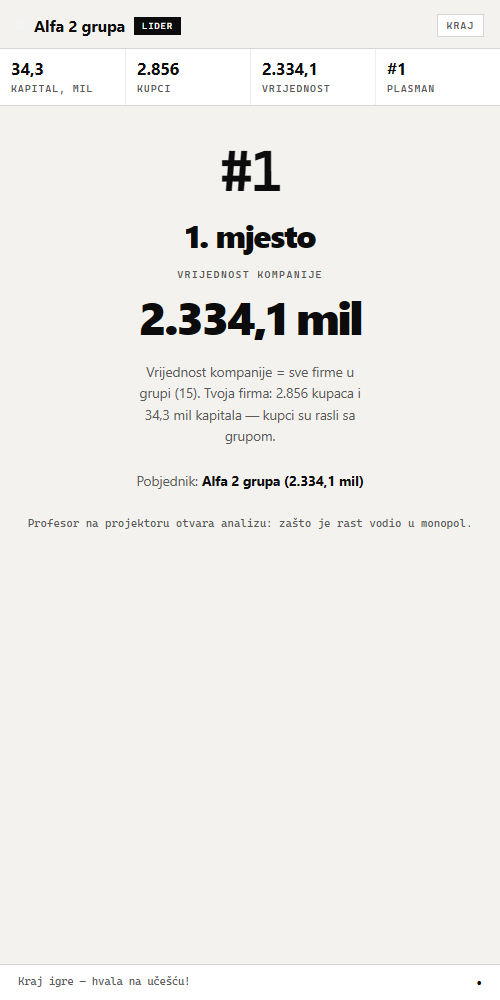
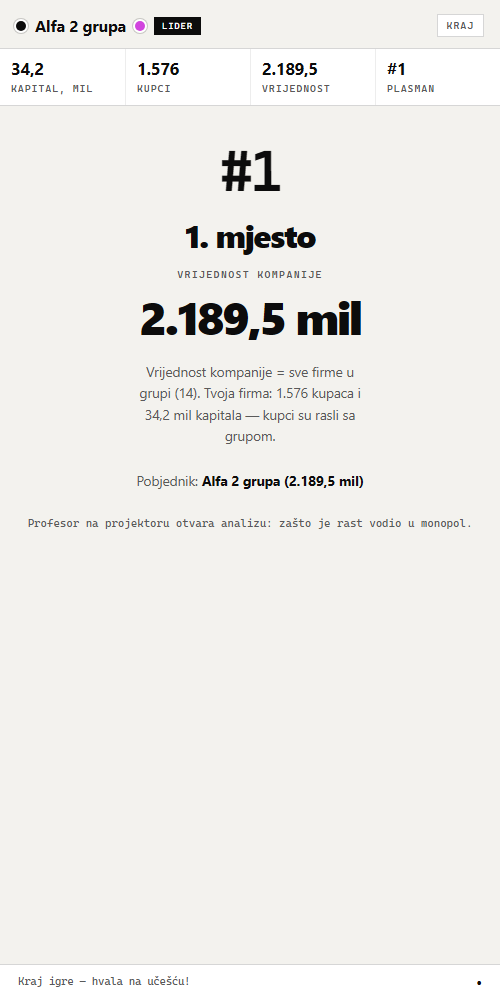
Boja firme/grupe uz naziv na telefonu (zaglavlje, ponude, glasanje, rang)

diff --git a/public/player.js b/public/player.js
@@ -114,7 +114,9 @@ function render() {
 
 function updateHeader() {
   const me = S.me;
-  $('myDot').style.background = '#f4f4f4';
+  const myColor = (me.group && me.group.members > 1 ? me.group.color : me.color) || '#0c0c0c';
+  const sw = $('myColor');
+  if (sw) sw.style.background = myColor || '#0c0c0c';
   $('myName').textContent = me.group && me.group.members > 1 ? me.group.name : me.name;
   const badge = $('leaderBadge');
   const isLeader = me.group && me.group.isLeader && me.group.members > 1;
@@ -188,13 +190,18 @@ function buildLobby() {
   const root = h('div', { class: 'lobby-wait' },
     h('div', { class: 'lobby-mark' }),
     h('h2', {}, 'Firma je osnovana'),
-    h('div', { class: 'firm-name-big', id: 'lobbyFirm' }, S.me.name),
+    h('div', { class: 'firm-name-big', id: 'lobbyFirm' }, h('span', { class: 'swatch', id: 'lobbySwatch' }), S.me.name),
     h('p', {}, 'Dobio si 50 miliona KM kapitala. Na tržištu je 10.000 kupaca i svi se bore za njih. Igra ima 5 rundi.'),
     h('div', { class: 'live-count', id: 'lobbyCount' }, ''),
     h('div', { class: 'note' }, 'Kada se svi prijave, profesor pokreće igru.')
   );
   const update = st => {
-    $('lobbyFirm').textContent = st.me.name;
+    const firmEl = $('lobbyFirm');
+    if (firmEl) {
+      const sw = document.getElementById('lobbySwatch');
+      if (sw) sw.style.background = st.me.color || '#0c0c0c';
+      if (firmEl.childNodes[1]) firmEl.childNodes[1].nodeValue = st.me.name;
+    }
     const n = st.totals.players;
     $('lobbyCount').innerHTML = '<b>' + fmt0(n) + '</b> ' + (n === 1 ? 'firma u sali' : 'firmi u sali');
   };
@@ -438,7 +445,7 @@ function buildMerge() {
     const gp = h('div', { class: 'group-panel' });
     if (g && g.members > 1) {
       gp.append(
-        h('div', { class: 'gp-name' }, g.name),
+        h('div', { class: 'gp-name' }, h('span', { class: 'swatch', style: { background: g.color || '#0c0c0c' } }), g.name),
         h('div', { class: 'gp-meta' }, g.members + ' firmi: ' + (g.memberNames || []).join(', ')),
         h('div', { class: 'gp-meta' }, 'Lider: ' + g.leaderName + (g.isLeader ? ' (ti)' : '') + ' · udio ' + pct(g.share) + ' · vrijednost ' + fmt1(g.score) + ' mil'),
         h('div', { class: 'gp-meta' }, 'Zajedno imate ' + fmt0(g.customers) + ' kupaca i ' + fmt1(g.capital) + ' mil kapitala.'),
@@ -446,7 +453,7 @@ function buildMerge() {
       );
     } else {
       gp.append(
-        h('div', { class: 'gp-name' }, me.name),
+        h('div', { class: 'gp-name' }, h('span', { class: 'swatch', style: { background: me.color || '#0c0c0c' } }), me.name),
         h('div', { class: 'gp-meta' }, 'Samostalna firma · ' + fmt0(me.customers) + ' kupaca · ' + fmt1(me.capital) + ' mil kapitala'),
         h('div', { class: 'gp-meta' }, 'Ako prihvatiš spajanje: ' + gainText + '. Zato se isplati biti u većoj grupi.')
       );
@@ -462,9 +469,11 @@ function buildMerge() {
         refs.offerMeta = refs.offerMeta || [];
         refs.offerMeta.push({ el: metaEl, id: o.id });
         card.append(
-          h('div', { class: 'offer-title' }, o.open
-            ? o.fromGroupName + ' poziva sve firme na spajanje'
-            : o.fromGroupName + ' želi da se spoji s tobom'),
+          h('div', { class: 'offer-title' },
+            h('span', { class: 'swatch', style: { background: o.fromColor || '#0c0c0c' } }),
+            o.open
+              ? o.fromGroupName + ' poziva sve firme na spajanje'
+              : o.fromGroupName + ' želi da se spoji s tobom'),
           metaEl
         );
         if (o.canRespond) {
@@ -519,7 +528,7 @@ function buildMerge() {
       root.append(h('div', { class: 'section-label' }, 'Ili pošalji ponudu jednoj grupi'));
       for (const o of others) {
         const row = h('div', { class: 'merge-row' },
-          h('span', { class: 'mr-dot' }),
+          h('span', { class: 'mr-dot', style: { background: o.color || '#0c0c0c' } }),
           h('div', { class: 'mr-main' },
             h('div', { class: 'mr-name' }, o.name),
             h('div', { class: 'mr-meta' }, o.members + ' firmi · ' + pct(o.share) + ' tržišta · ' + fmt1(o.score) + ' mil')
@@ -641,8 +650,11 @@ function buildResults() {
     (me.prevCustomers != null ? me.prevCustomers : me.customers) * cv;
   const dVal = value - prevValue;
 
+  const resColor = me.group && me.group.members > 1 ? me.group.color : me.color;
   root.append(
-    h('div', { class: 'result-kicker' }, 'RUNDA ' + S.round + ' · ' + ((r.title || '').toUpperCase())),
+    h('div', { class: 'result-kicker' },
+      h('span', { class: 'swatch', style: { background: resColor || '#0c0c0c' } }),
+      'RUNDA ' + S.round + ' · ' + ((r.title || '').toUpperCase())),
     h('div', { class: 'result-big ' + bigClass }, big),
     h('div', { class: 'result-sub' }, sub),
     h('div', { class: 'rank-line' },

diff --git a/public/player.css b/public/player.css
@@ -93,7 +93,7 @@ body.player {
   font-weight: 700;
   letter-spacing: -0.01em;
 }
-.firm-chip .dot { width: 9px; height: 9px; background: #0c0c0c; flex: none; }
+.firm-chip .firm-color { width: 10px; height: 10px; border-radius: 50%; background: #0c0c0c; flex: none; }
 #myName { white-space: nowrap; overflow: hidden; text-overflow: ellipsis; }
 .badge {
   flex: none;
@@ -496,3 +496,27 @@ body.player {
   border-left: 2px solid var(--text);
   padding-left: 10px;
 }
+
+/* ------------------------- boja firme / grupe ----------------------------- */
+.firm-color {
+  flex: none;
+  width: 12px;
+  height: 12px;
+  border-radius: 50%;
+  background: #0c0c0c;
+  box-shadow: 0 0 0 2px #fff, 0 0 0 3px rgba(0, 0, 0, 0.18);
+}
+.swatch {
+  display: inline-block;
+  width: 11px;
+  height: 11px;
+  border-radius: 50%;
+  margin-right: 8px;
+  vertical-align: baseline;
+  flex: none;
+}
+.gp-name { display: flex; align-items: center; }
+.offer-title { display: flex; align-items: baseline; flex-wrap: wrap; }
+.offer-title .swatch { width: 10px; height: 10px; margin-right: 7px; }
+.firm-name-big { display: flex; align-items: center; justify-content: center; gap: 2px; }
+.result-kicker { display: flex; align-items: center; }

diff --git a/public/index.html b/public/index.html
@@ -32,8 +32,9 @@
   <div id="app" class="app hidden">
     <header class="app-head">
       <div class="firm-chip">
-        <span class="dot" id="myDot"></span>
+        <span class="firm-color" id="myDot"></span>
         <span id="myName">—</span>
+        <span class="firm-color" id="myColor"></span>
         <span class="badge hidden" id="leaderBadge">LIDER</span>
       </div>
       <div class="round-chip" id="roundChip">LOBI</div>
